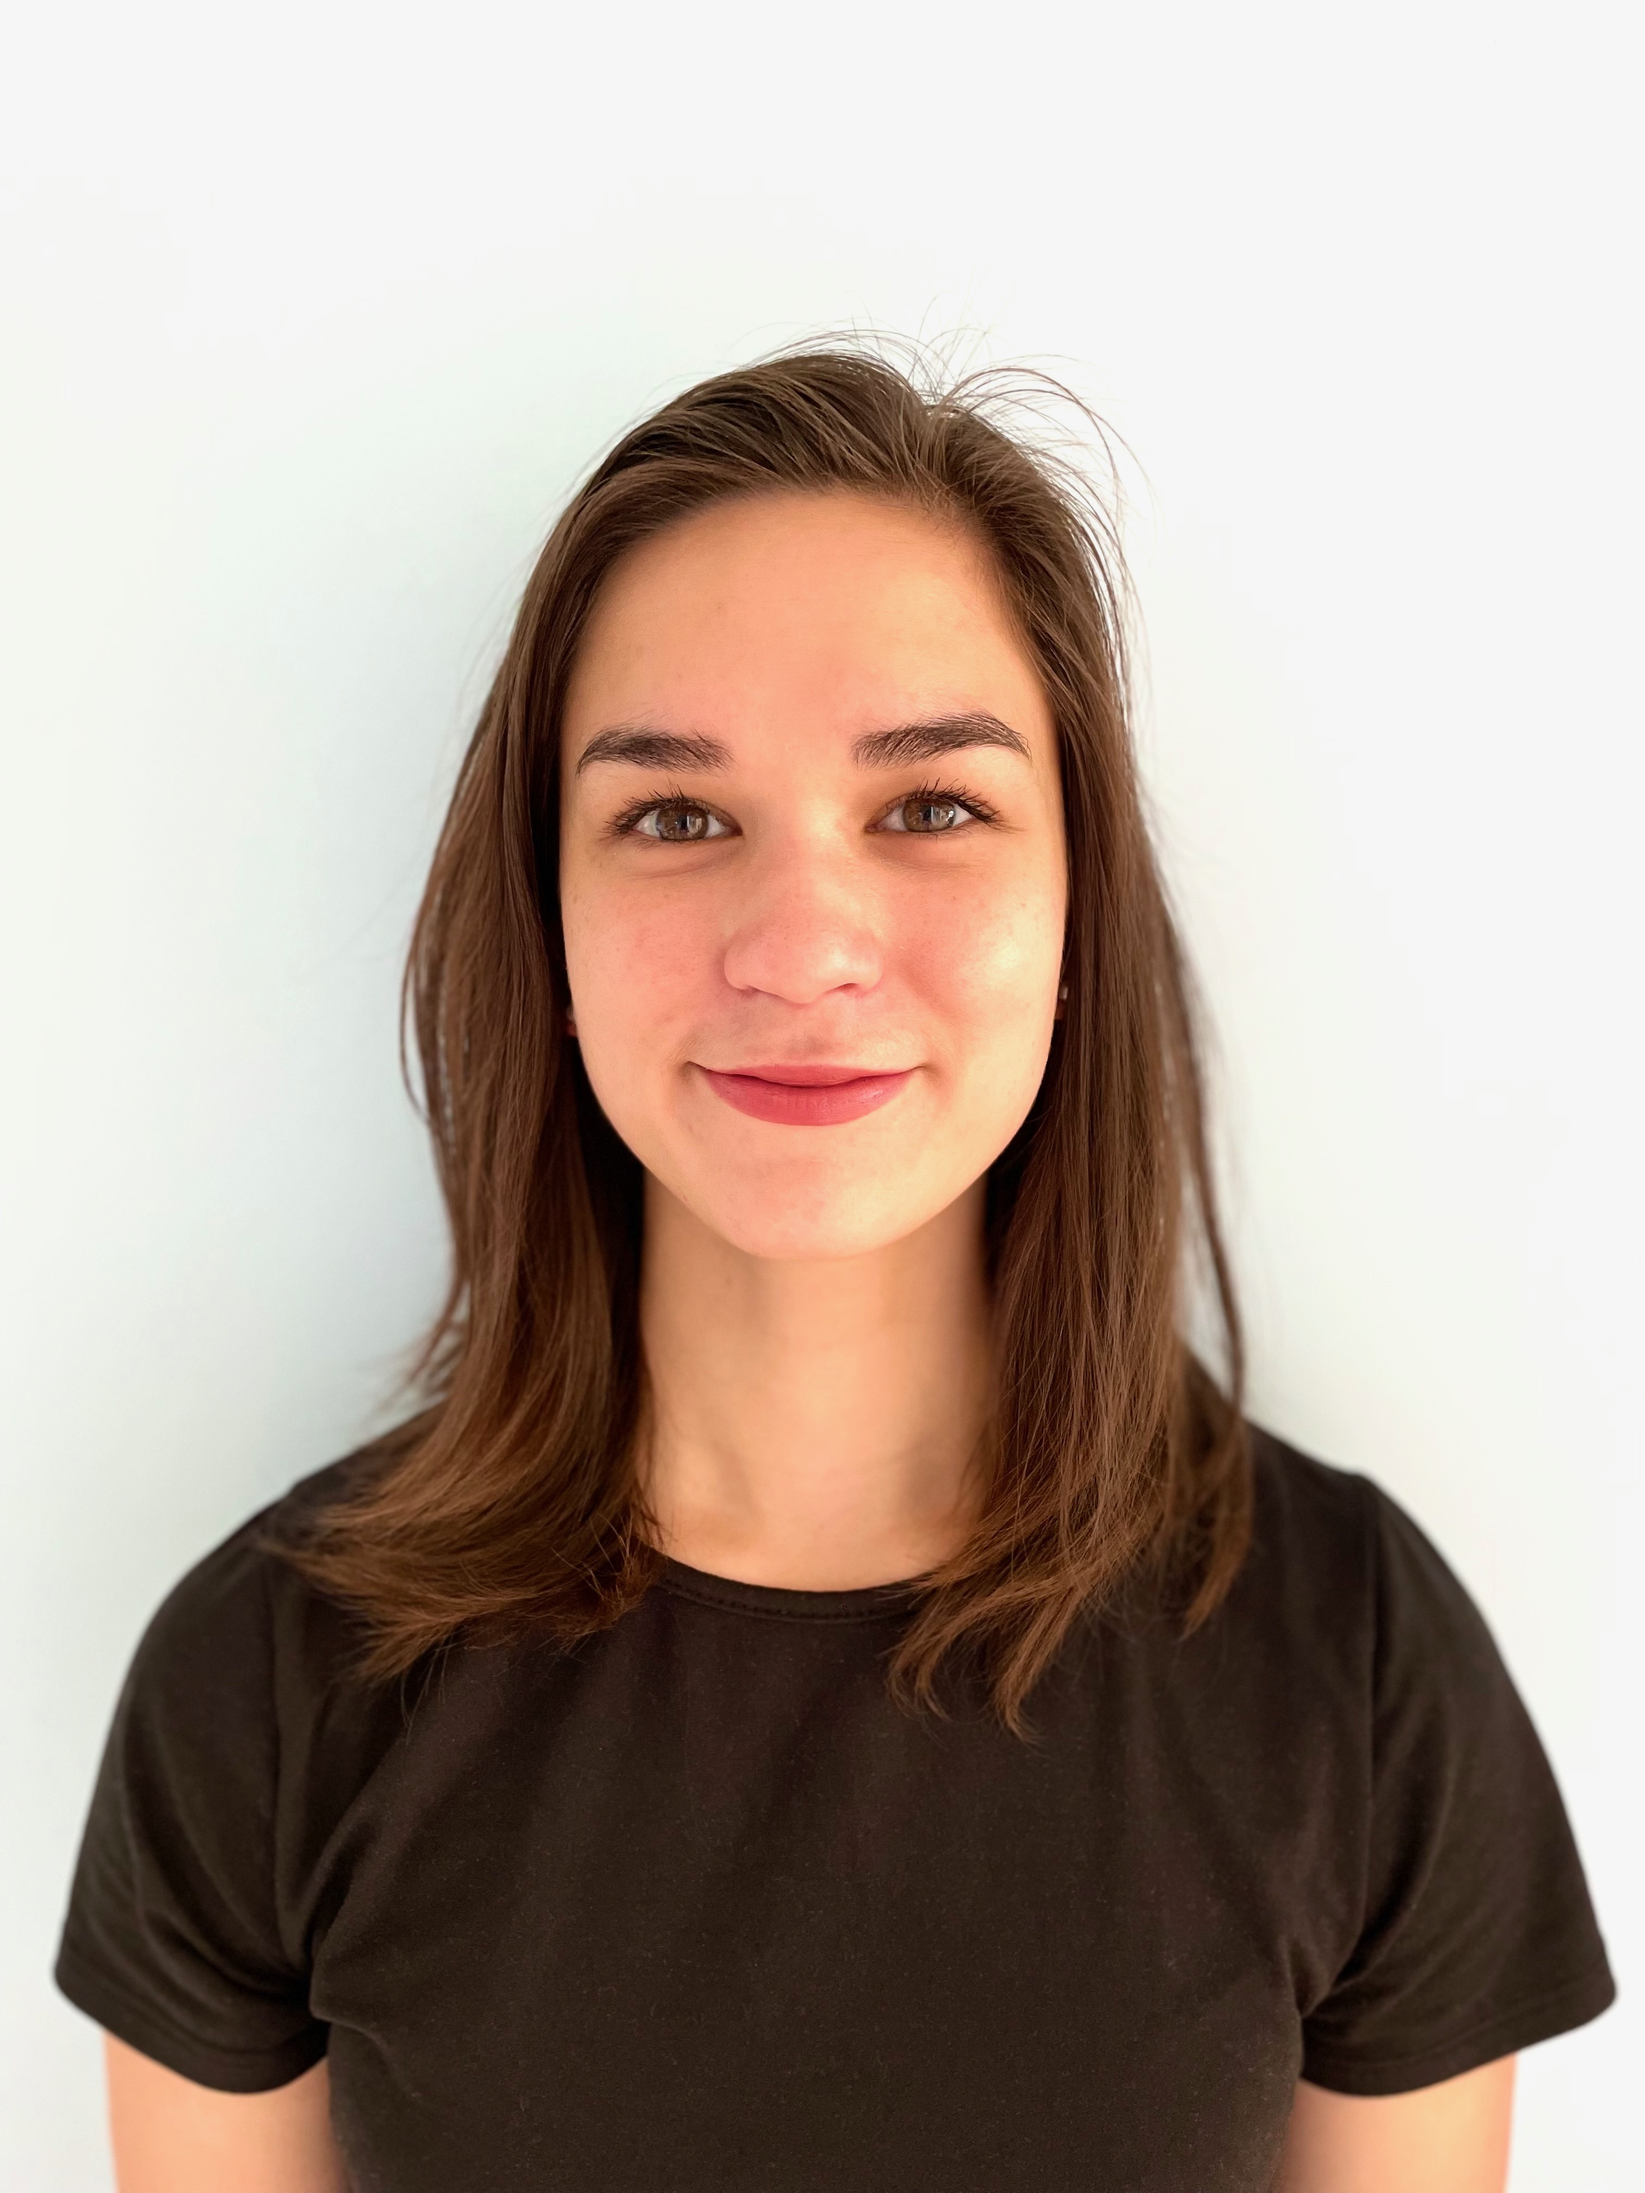
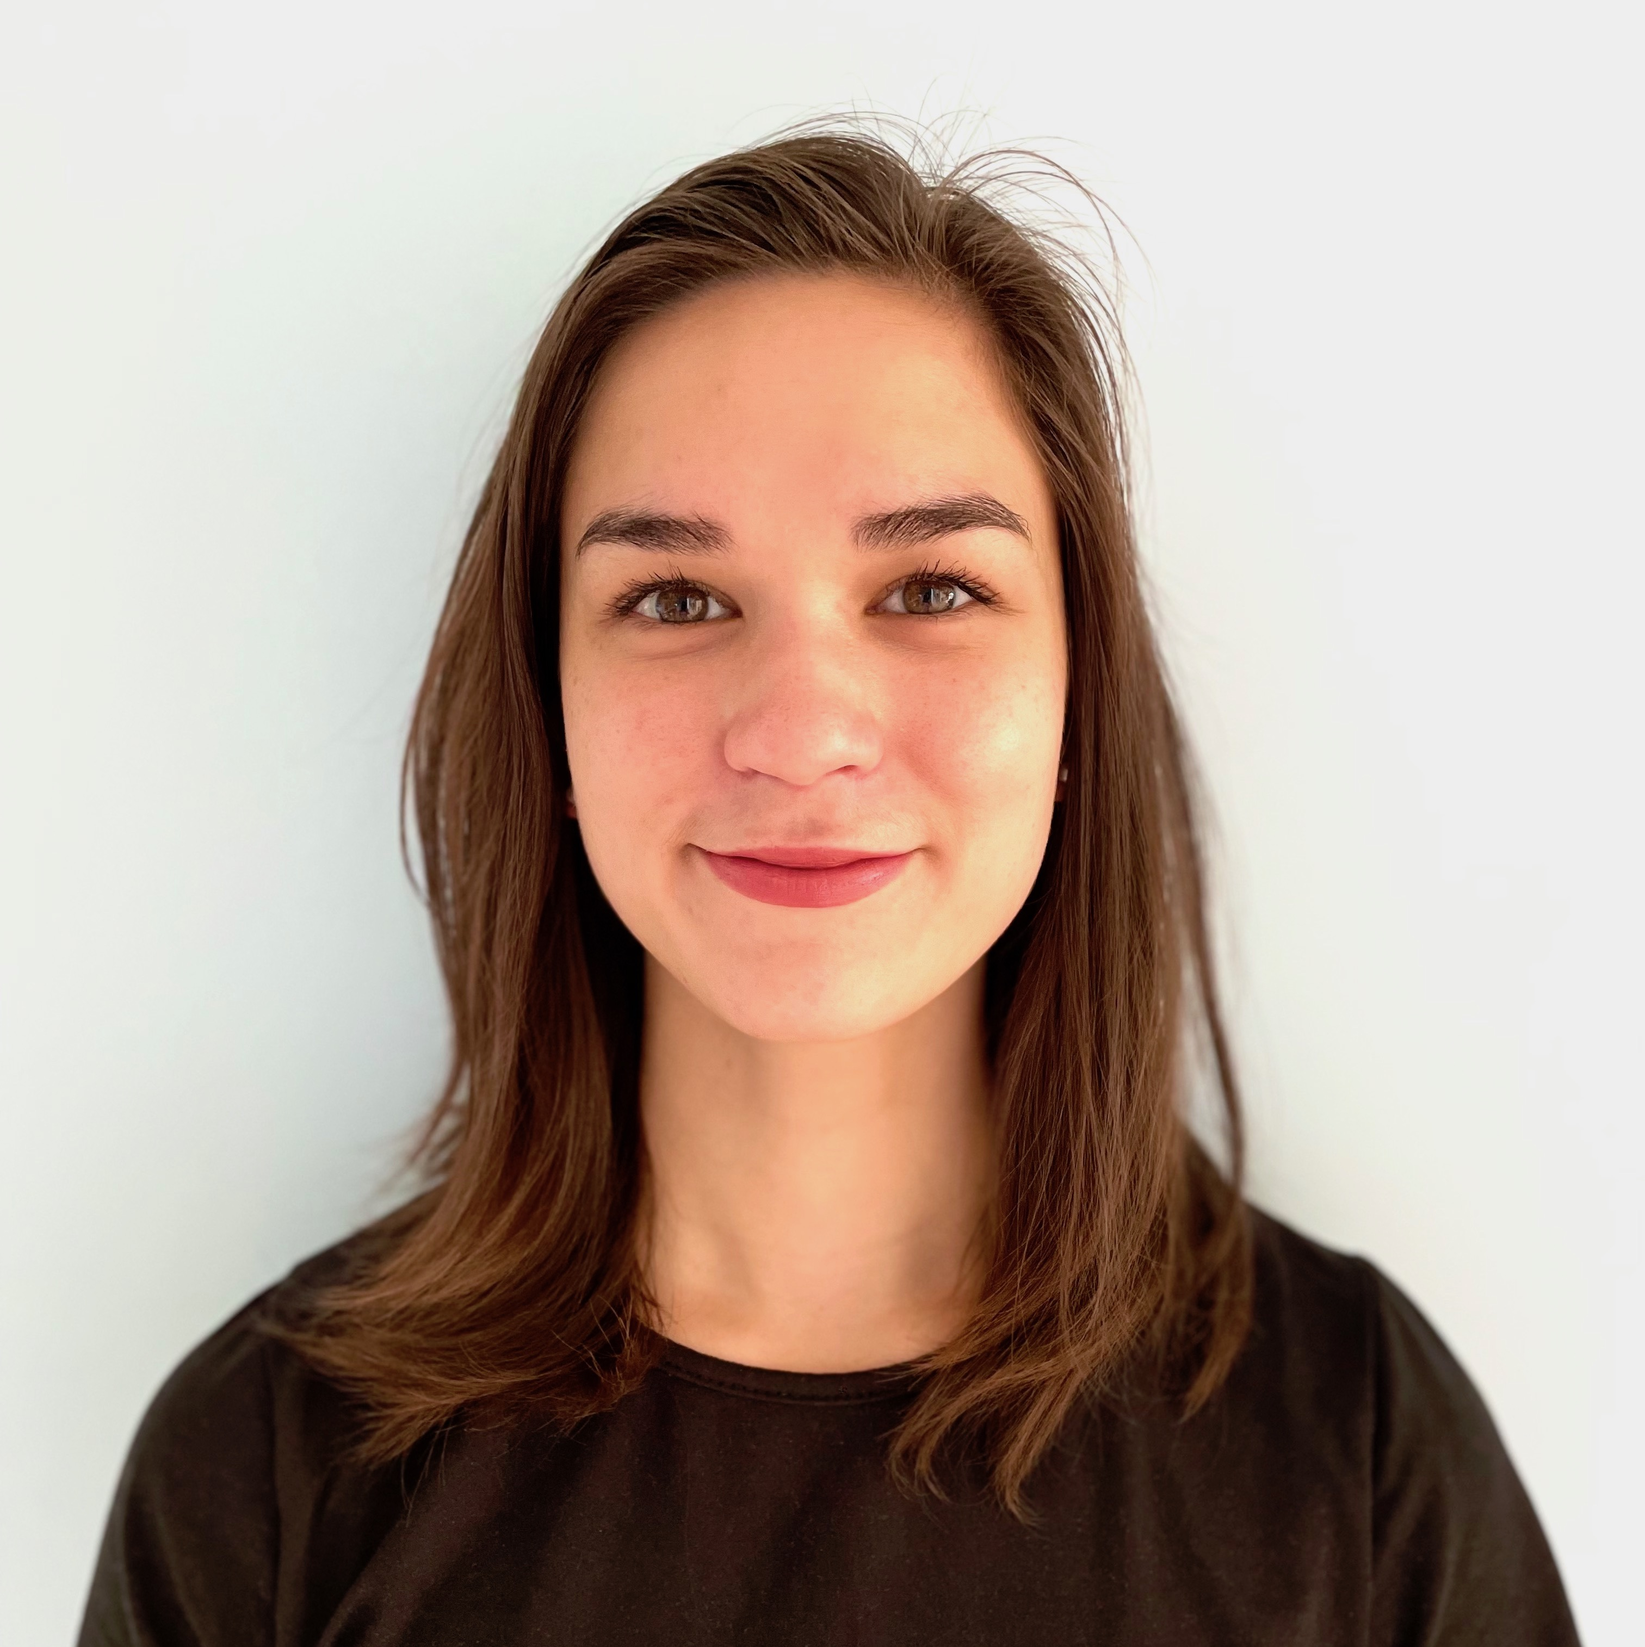
small changes

Changed region(s): [[0.0311, 0.0621, 0.9947, 1.0], [0.4663, 0.9003, 0.4974, 0.9624], [0.6839, 0.4036, 0.7149, 0.4346]]

diff --git a/site/2_people.md b/site/2_people.md
@@ -22,7 +22,7 @@ Anum Glasgow (she/her) | *Principal investigator*
 ```{image} people/anum.jpg
 :alt: anum-roadtripping
 :class: bg-primary mb-1
-:width: 250px
+:width: 275px
 :align: left
 ```
 I am an assistant professor at Columbia University Medical Center in the [Department of Biochemistry and Molecular Biophysics](https://www.biochem.cuimc.columbia.edu/). I grew up on the Jersey Shore. As an undergraduate in the [Gracias Lab](https://graciaslab.johnshopkins.edu/), I built self-folding micro-structures. In graduate school, I studied nature's most beautiful self-folding systems -- proteins -- in the [DTE Lab](https://dtelab.northwestern.edu/) at UC Berkeley. For the last few years, I moved into computational biophysics to design new proteins for artifical functions as a postdoctoral fellow in the [Kortemme Lab](http://kortemmelab.ucsf.edu/) at UCSF. I am so pumped to do protein science in NYC!! 
@@ -37,7 +37,7 @@ Julia Urban (she/her) | *Graduate student rotating with us!*
 ```{image} people/julia.jpg
 :alt: julia
 :class: bg-primary mb-1
-:width: 250px
+:width: 275px
 :align: left
 ```
 I am a PhD student in the Integrated Program in Cellular, Molecular, and Biomedical Studies Program at Columbia. I received my B.S. in Computational & Applied Mathematics & Statistics at William & Mary, where I competed in the iGEM synthetic biology competition. I am interested in synthetic biology and protein engineering.
@@ -52,7 +52,7 @@ Daniel Camilo Pineda (he/they) | *Undergraduate researcher*
 ```{image} people/daniel.jpg
 :alt: daniel-is-cool
 :class: bg-primary mb-1
-:width: 250px
+:width: 275px
 :align: left
 ```
 I am a third-year undergraduate student working towards a B.A. in Biochemistry. I was born in Bógota, Colombia, and moved to the US 6 years ago. I lived in Miami, Florida, and obtained my Associate Degree in chemistry at Miami Dade College. There, I worked with Dr. Juan Morata where I became fascinated with viruses and their ability to hack biological mechanisms. Currently, I am learning about protein engineering and computational biology; I am extremely excited to keep studying proteins! Outside the lab, I enjoy reading, playing, and developing videogames, skateboarding, and museums! 
@@ -67,7 +67,7 @@ email: dcp2151 [at] columbia [dot] edu
 ```{image} people/bird.png
 :alt: bird
 :class: bg-primary mb-1
-:width: 250px
+:width: 275px
 :align: left
 ```
 <br/>

diff --git a/site/4_publications.md b/site/4_publications.md
@@ -22,13 +22,14 @@
 ```
 <br/>
 <br/>
+<br/>
 
 *New preprint!*
 
 __Anum Glasgow__, Helen T. Hobbs, Zion R. Perry, Susan Marqusee\*, and Tanja Kortemme\*. [Ligand-induced changes in dynamics mediate long-range allostery in the *lac* repressor.](https://doi.org/10.1101/2021.11.30.470682) *bioRxiv*, December 2021.
 <br/>
 <br/>
-Explore our HDX/MS data for LacI [here](https://gesis.mybinder.org/binder/v2/gh/anumazam/anumazam.github.io/ae68811923cb022dbd93e677b8bdc46f2b607cb9?urlpath=lab%2Ftree%2Fsite%2F7_LacI_demo.ipynb).
+Explore our HDX/MS data for LacI [here]().
 <br/>
 <br/>
 <br/>
